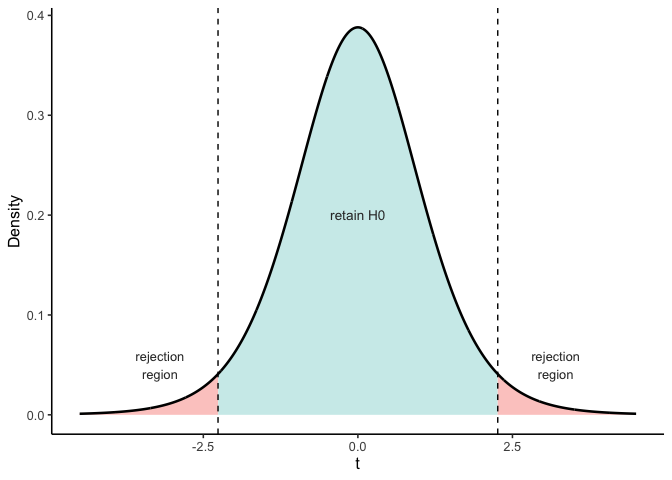
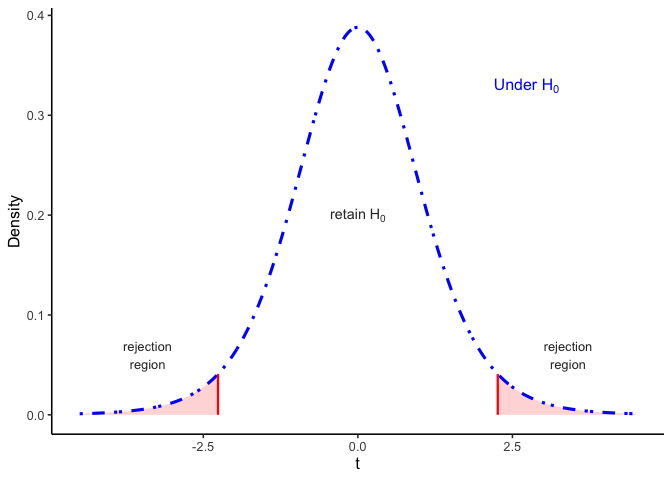
Ch6: draw the t rejection-region figure in the Ch4/5 convention
Blue dot-dash null, red-shaded tails and red critical values, no fill in the middle.

diff --git a/docs/06-ttests.html b/docs/06-ttests.html
@@ -346,7 +346,7 @@ window.Quarto = {
     <div>
     <div class="quarto-title-meta-heading">Modified</div>
     <div class="quarto-title-meta-contents">
-      <p class="date-modified">September 22, 2026</p>
+      <p class="date-modified">September 23, 2026</p>
     </div>
   </div>
     
@@ -529,13 +529,13 @@ Figure&nbsp;6.3: Histogram of 1,000 simulated <span class="math inline">\(t\)</s
 <p>Remember, if we obtained a single <span class="math inline">\(t\)</span> from one sample we collected, we could consult the chance window in <a href="#fig-6-t-rejection" class="quarto-xref">Figure&nbsp;<span>6.4</span></a> below to find out whether the <span class="math inline">\(t\)</span> we obtained from the sample was likely or unlikely to occur by chance.</p>
 <div class="cell">
 <div class="cell-output-display">
-<div id="fig-6-t-rejection" class="quarto-float quarto-figure quarto-figure-center anchored" alt="A t-distribution curve with 9 degrees of freedom, with dashed vertical lines marking the critical values near plus and minus 2.26. The large central region between the lines is shaded teal and labeled 'retain H0,' while the two tail regions beyond the lines are shaded red and labeled 'rejection region.'">
+<div id="fig-6-t-rejection" class="quarto-float quarto-figure quarto-figure-center anchored" alt="A blue t-distribution curve with 9 degrees of freedom. Red vertical lines mark the critical values near plus and minus 2.26, and the two tails beyond them are shaded red and labeled 'rejection region.' The middle of the curve is labeled 'retain H0.'">
 <figure class="quarto-float quarto-float-fig figure">
 <div aria-describedby="fig-6-t-rejection-caption-0ceaefa1-69ba-4598-a22c-09a6ac19f8ca">
-<img src="06-ttests_files/figure-html/fig-6-t-rejection-1.png" class="img-fluid figure-img" style="width:80.0%" alt="A t-distribution curve with 9 degrees of freedom, with dashed vertical lines marking the critical values near plus and minus 2.26. The large central region between the lines is shaded teal and labeled 'retain H0,' while the two tail regions beyond the lines are shaded red and labeled 'rejection region.'">
+<img src="06-ttests_files/figure-html/fig-6-t-rejection-1.png" class="img-fluid figure-img" style="width:80.0%" alt="A blue t-distribution curve with 9 degrees of freedom. Red vertical lines mark the critical values near plus and minus 2.26, and the two tails beyond them are shaded red and labeled 'rejection region.' The middle of the curve is labeled 'retain H0.'">
 </div>
 <figcaption class="quarto-float-caption-bottom quarto-float-caption quarto-float-fig" id="fig-6-t-rejection-caption-0ceaefa1-69ba-4598-a22c-09a6ac19f8ca">
-Figure&nbsp;6.4: Two-tailed rejection regions at <span class="math inline">\(\alpha=.05\)</span> for <span class="math inline">\(t_{(df=9)}\)</span>. Shaded tails mark unlikely values under <span class="math inline">\(H_0\)</span>.
+Figure&nbsp;6.4: Two-tailed rejection regions at <span class="math inline">\(\alpha=.05\)</span> for <span class="math inline">\(t_{(df=9)}\)</span>. The shaded tails beyond the red critical values mark unlikely values under <span class="math inline">\(H_0\)</span>.
 </figcaption>
 </figure>
 </div>
